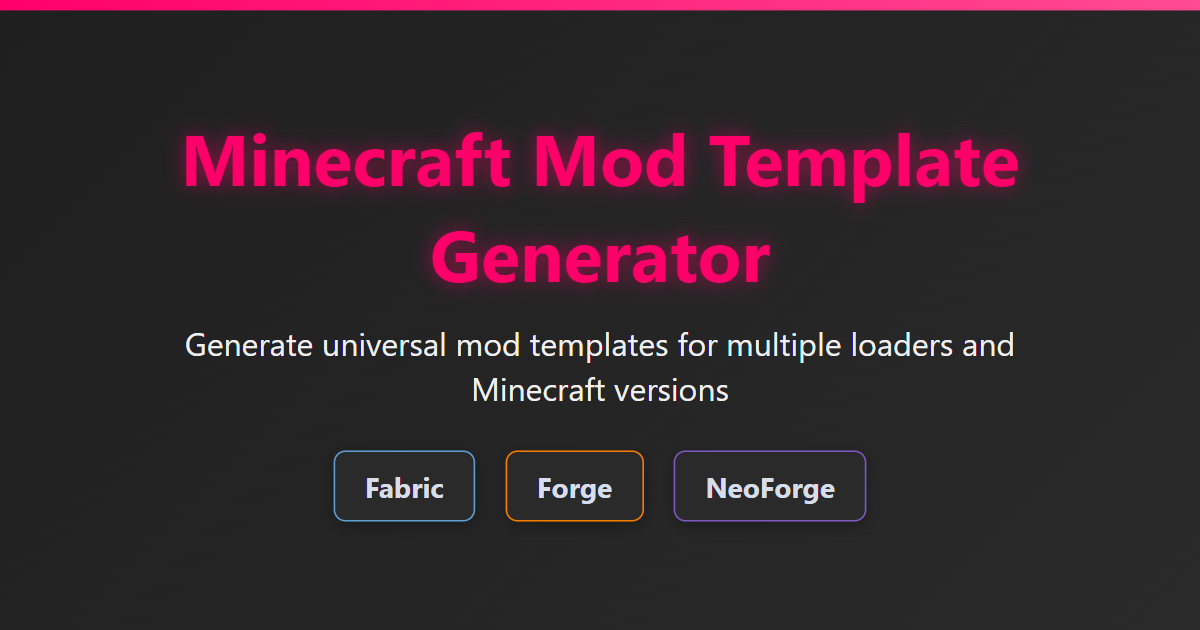
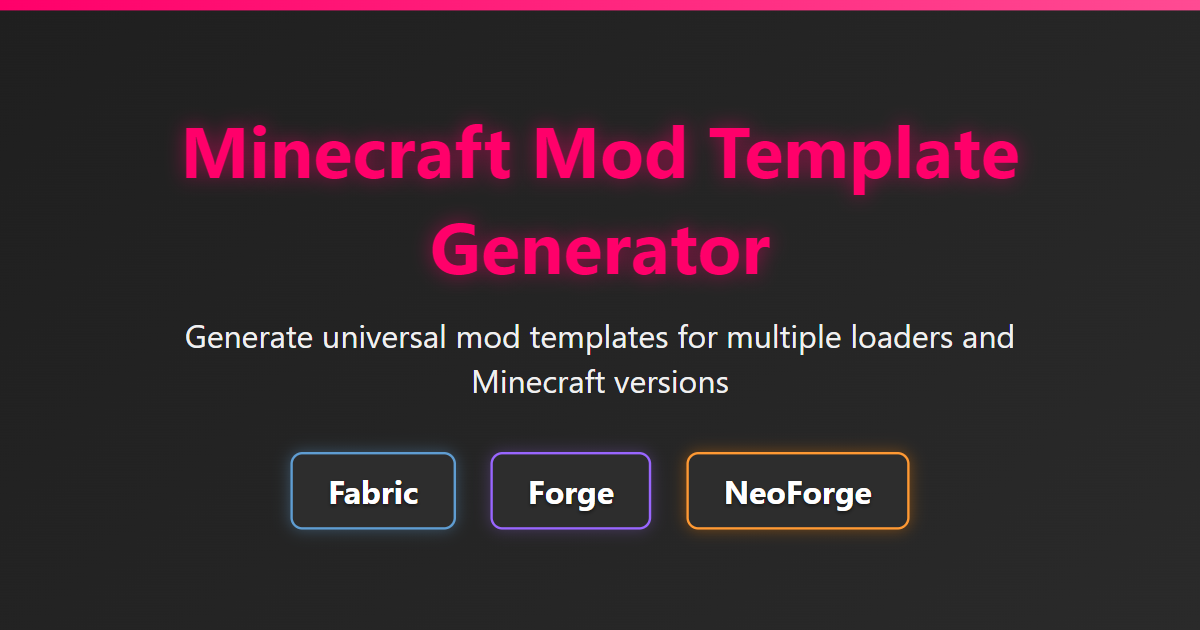
update assets

diff --git a/scripts/generate-favicon.js b/scripts/generate-favicon.js
@@ -4,27 +4,27 @@ const puppeteer = require('puppeteer');
 
 async function generateFavicon() {
   console.log('Generating favicon...');
-  
+
   try {
     // Launch a headless browser
     const browser = await puppeteer.launch({
       headless: 'new',
       args: ['--no-sandbox', '--disable-setuid-sandbox']
     });
-    
+
     const page = await browser.newPage();
-    
+
     // Set viewport to favicon dimensions
     await page.setViewport({
       width: 32,
       height: 32,
       deviceScaleFactor: 1
     });
-    
+
     // Load the SVG
     const svgPath = path.join(__dirname, '../public/favicon.svg');
     const svgContent = fs.readFileSync(svgPath, 'utf8');
-    
+
     // Create a simple HTML page with the SVG
     const html = `
       <!DOCTYPE html>
@@ -37,6 +37,7 @@ async function generateFavicon() {
               width: 32px;
               height: 32px;
               overflow: hidden;
+              background-color: transparent;
             }
           </style>
         </head>
@@ -45,33 +46,35 @@ async function generateFavicon() {
         </body>
       </html>
     `;
-    
+
     await page.setContent(html, { waitUntil: 'networkidle0' });
-    
-    // Take a screenshot for favicon.png
+
+    // Take a screenshot for favicon.png with transparency
     const faviconPath = path.join(__dirname, '../public/favicon.png');
     await page.screenshot({
       path: faviconPath,
-      type: 'png'
+      type: 'png',
+      omitBackground: true // This ensures transparency is preserved
     });
-    
+
     // Generate apple-touch-icon (180x180)
     await page.setViewport({
       width: 180,
       height: 180,
       deviceScaleFactor: 1
     });
-    
+
     await page.setContent(html, { waitUntil: 'networkidle0' });
-    
+
     const appleTouchIconPath = path.join(__dirname, '../public/apple-touch-icon.png');
     await page.screenshot({
       path: appleTouchIconPath,
-      type: 'png'
+      type: 'png',
+      omitBackground: true // This ensures transparency is preserved
     });
-    
+
     await browser.close();
-    
+
     console.log(`Favicon generated successfully at: ${faviconPath}`);
     console.log(`Apple Touch Icon generated successfully at: ${appleTouchIconPath}`);
   } catch (error) {

diff --git a/public/og-image.html b/public/og-image.html
@@ -65,33 +65,37 @@
 
         .loaders {
             display: flex;
-            margin-top: 40px;
-            gap: 30px;
+            margin-top: 50px;
+            gap: 35px;
         }
 
         .loader-badge {
-            background-color: #2a2a2a;
-            border: 2px solid #3a3a3a;
+            background-color: #2d2d2d;
+            border: 3px solid #3a3a3a;
             border-radius: 12px;
-            padding: 15px 30px;
-            font-size: 28px;
+            padding: 15px 35px;
+            font-size: 32px;
             font-weight: bold;
-            box-shadow: 0 4px 15px rgba(0, 0, 0, 0.3);
+            box-shadow: 0 4px 20px rgba(0, 0, 0, 0.4);
+            text-shadow: 0 2px 4px rgba(0, 0, 0, 0.5);
         }
 
         .fabric {
-            color: #d8dee9;
+            color: #ffffff;
             border-color: #5f9dd2;
+            box-shadow: 0 0 15px rgba(95, 157, 210, 0.4);
         }
 
         .forge {
-            color: #d8dee9;
-            border-color: #f57c00;
+            color: #ffffff;
+            border-color: #9966ff;
+            box-shadow: 0 0 15px rgba(126, 87, 194, 0.4);
         }
 
         .neoforge {
-            color: #d8dee9;
-            border-color: #7e57c2;
+            color: #ffffff;
+            border-color: #ff9933;
+            box-shadow: 0 0 15px rgba(245, 124, 0, 0.4);
         }
 
         .corner-decoration {
